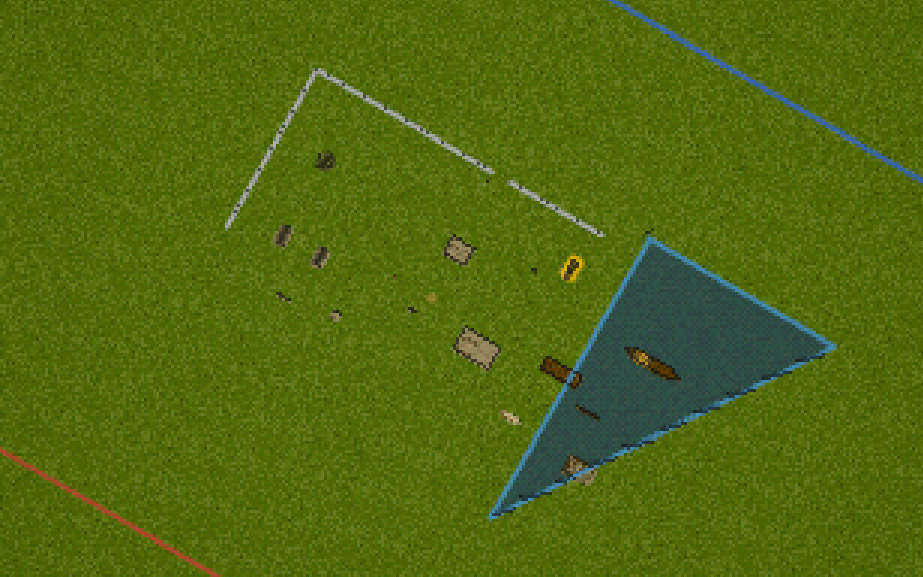
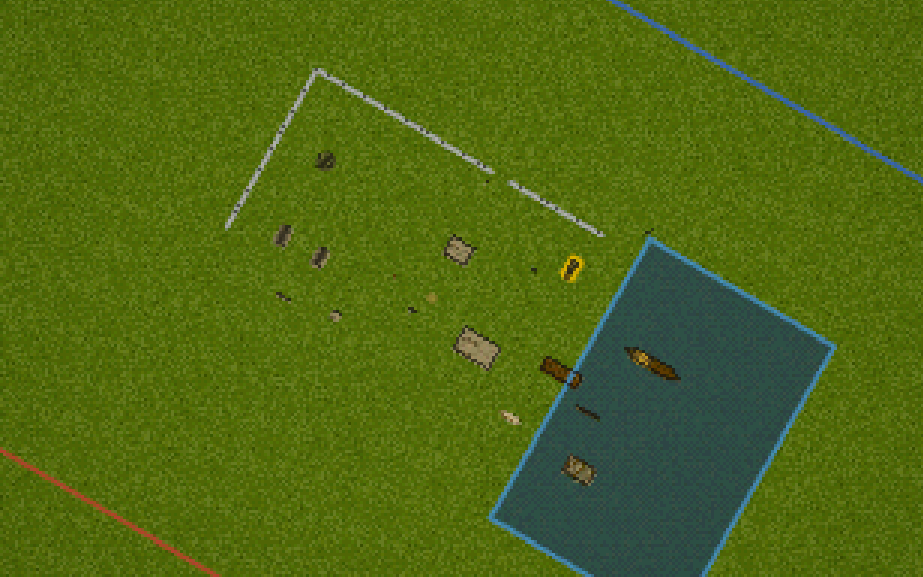
test(review): the hand check's clicks stay on the viewport; the gate before the church door
The three points noted in the hand check, looked into: the pond's lost
corner was a click off the viewport's edge, the iron gate stood behind the
church, and the dark cross at the strategic band is the tower's pyramid cap,
the same in the near and far mesh. Shots re-taken; status updated.

Changed region(s): [[0.5157, 0.5927, 0.9101, 1.0]]

diff --git a/tests/e2e/review-hand-check.spec.ts b/tests/e2e/review-hand-check.spec.ts
@@ -26,7 +26,11 @@ const OUT = 'docs/review/buildings/hand-check';
 
 async function at(page: Page, x: number, y: number): Promise<{ x: number; y: number }> {
   const point = await page.evaluate(([px, py]) => (window as unknown as Bridge).__prestesEditor!.toScreen(px!, py!), [x, y]);
-  if (!point) throw new Error(`${x}, ${y} is off screen`);
+  // A point past the viewport's edge would land on the page around it: the
+  // first hand check lost a corner of the pond that way.
+  const box = (await page.getByTestId('editor-viewport').boundingBox())!;
+  const inside = point && point.x > box.x + 4 && point.x < box.x + box.width - 4 && point.y > box.y + 4 && point.y < box.y + box.height - 4;
+  if (!inside) throw new Error(`${x}, ${y} is off screen`);
   return point;
 }
 
@@ -122,15 +126,16 @@ for (const [name, build] of [
     'town',
     async (page: Page) => {
       await newMap(page, 'teste-vila', 'Test town', 'Vila de teste');
-      // The church in its yard behind a coped wall, the iron gate in its front.
+      // The church in its yard behind a coped wall, the iron gate before its
+      // door (the church's front faces +y).
       await draw(page, [
-        ['coped-wall', [[-2.2, -4], [-12, -4], [-12, 24], [12, 24], [12, -4], [2.2, -4]]],
+        ['coped-wall', [[-2.2, 24], [-12, 24], [-12, -4], [12, -4], [12, 24], [2.2, 24]]],
         ['iron-railing', [[-14, -30], [14, -30]]],
         ['adobe-wall', [[26, 4], [26, 26]]],
       ]);
       await place(page, [
         ['church', 0, 10],
-        ['iron-gate', 0, -4],
+        ['iron-gate', 0, 24],
         ['sobrado', -24, -12, 'blue'],
         ['casa-terrea', -36, 16, 'whitewash'],
         ['casa-terrea', -26, 16, 'ochre'],
@@ -154,12 +159,13 @@ for (const [name, build] of [
     async (page: Page) => {
       await newMap(page, 'teste-acampamento', 'Test river camp', 'Acampamento de teste');
       // A wide bend of the river on the east side.
+      await page.evaluate(() => (window as unknown as Bridge).__prestesEditor!.look(50, 0, 130));
+      await page.waitForTimeout(1500);
       await page.locator('[data-tool="pond"]').click();
-      for (const [x, y] of [[30, -30], [70, -30], [70, 30], [30, 30]] as const) {
-        await click(page, x, y);
-        await page.waitForTimeout(400);
-      }
+      for (const [x, y] of [[30, -30], [70, -30], [70, 30], [30, 30]] as const) await click(page, x, y);
       await page.keyboard.press('Enter');
+      await page.evaluate(() => (window as unknown as Bridge).__prestesEditor!.look(0, 0, 130));
+      await page.waitForTimeout(1500);
       await draw(page, [
         ['rail-fence', [[-40, -26], [-1.9, -26]]],
         ['rail-fence', [[1.9, -26], [22, -26]]],

diff --git a/docs/status.md b/docs/status.md
@@ -465,8 +465,11 @@ corrugated asbestos appears.
   `docs/review/buildings/sheet-hand-check.png` shows both in the tactical
   and strategic bands. Both opened in the playtest, went through deployment
   and ran 8 s of battle with no console error. The owner approved them as
-  they are. Open, noted for later: the river camp's pond came out with three
-  corners instead of four (the test's clicks or the pond tool, not looked
-  into); the iron gate barely shows behind the church in that view; at the
-  strategic band the church's roof shows a dark cross where the tower is,
-  worth a look at its far mesh.
+  they are. Three points noted then, looked into on 2026-11-13: the pond's
+  missing corner was the test's own click, off the viewport's edge (the
+  pond tool is right; the script now looks at the pond first and refuses an
+  off-screen point); the iron gate was behind the church, whose front faces
+  +y (the script moved the gap and the gate before the door); the dark cross
+  at the strategic band is the tower's four-sided pyramid cap, the same in
+  the near and the far mesh, not a fault of the split. Shots re-taken. Still
+  open: the open iron gate is a few thin dark bars at the tactical band.
